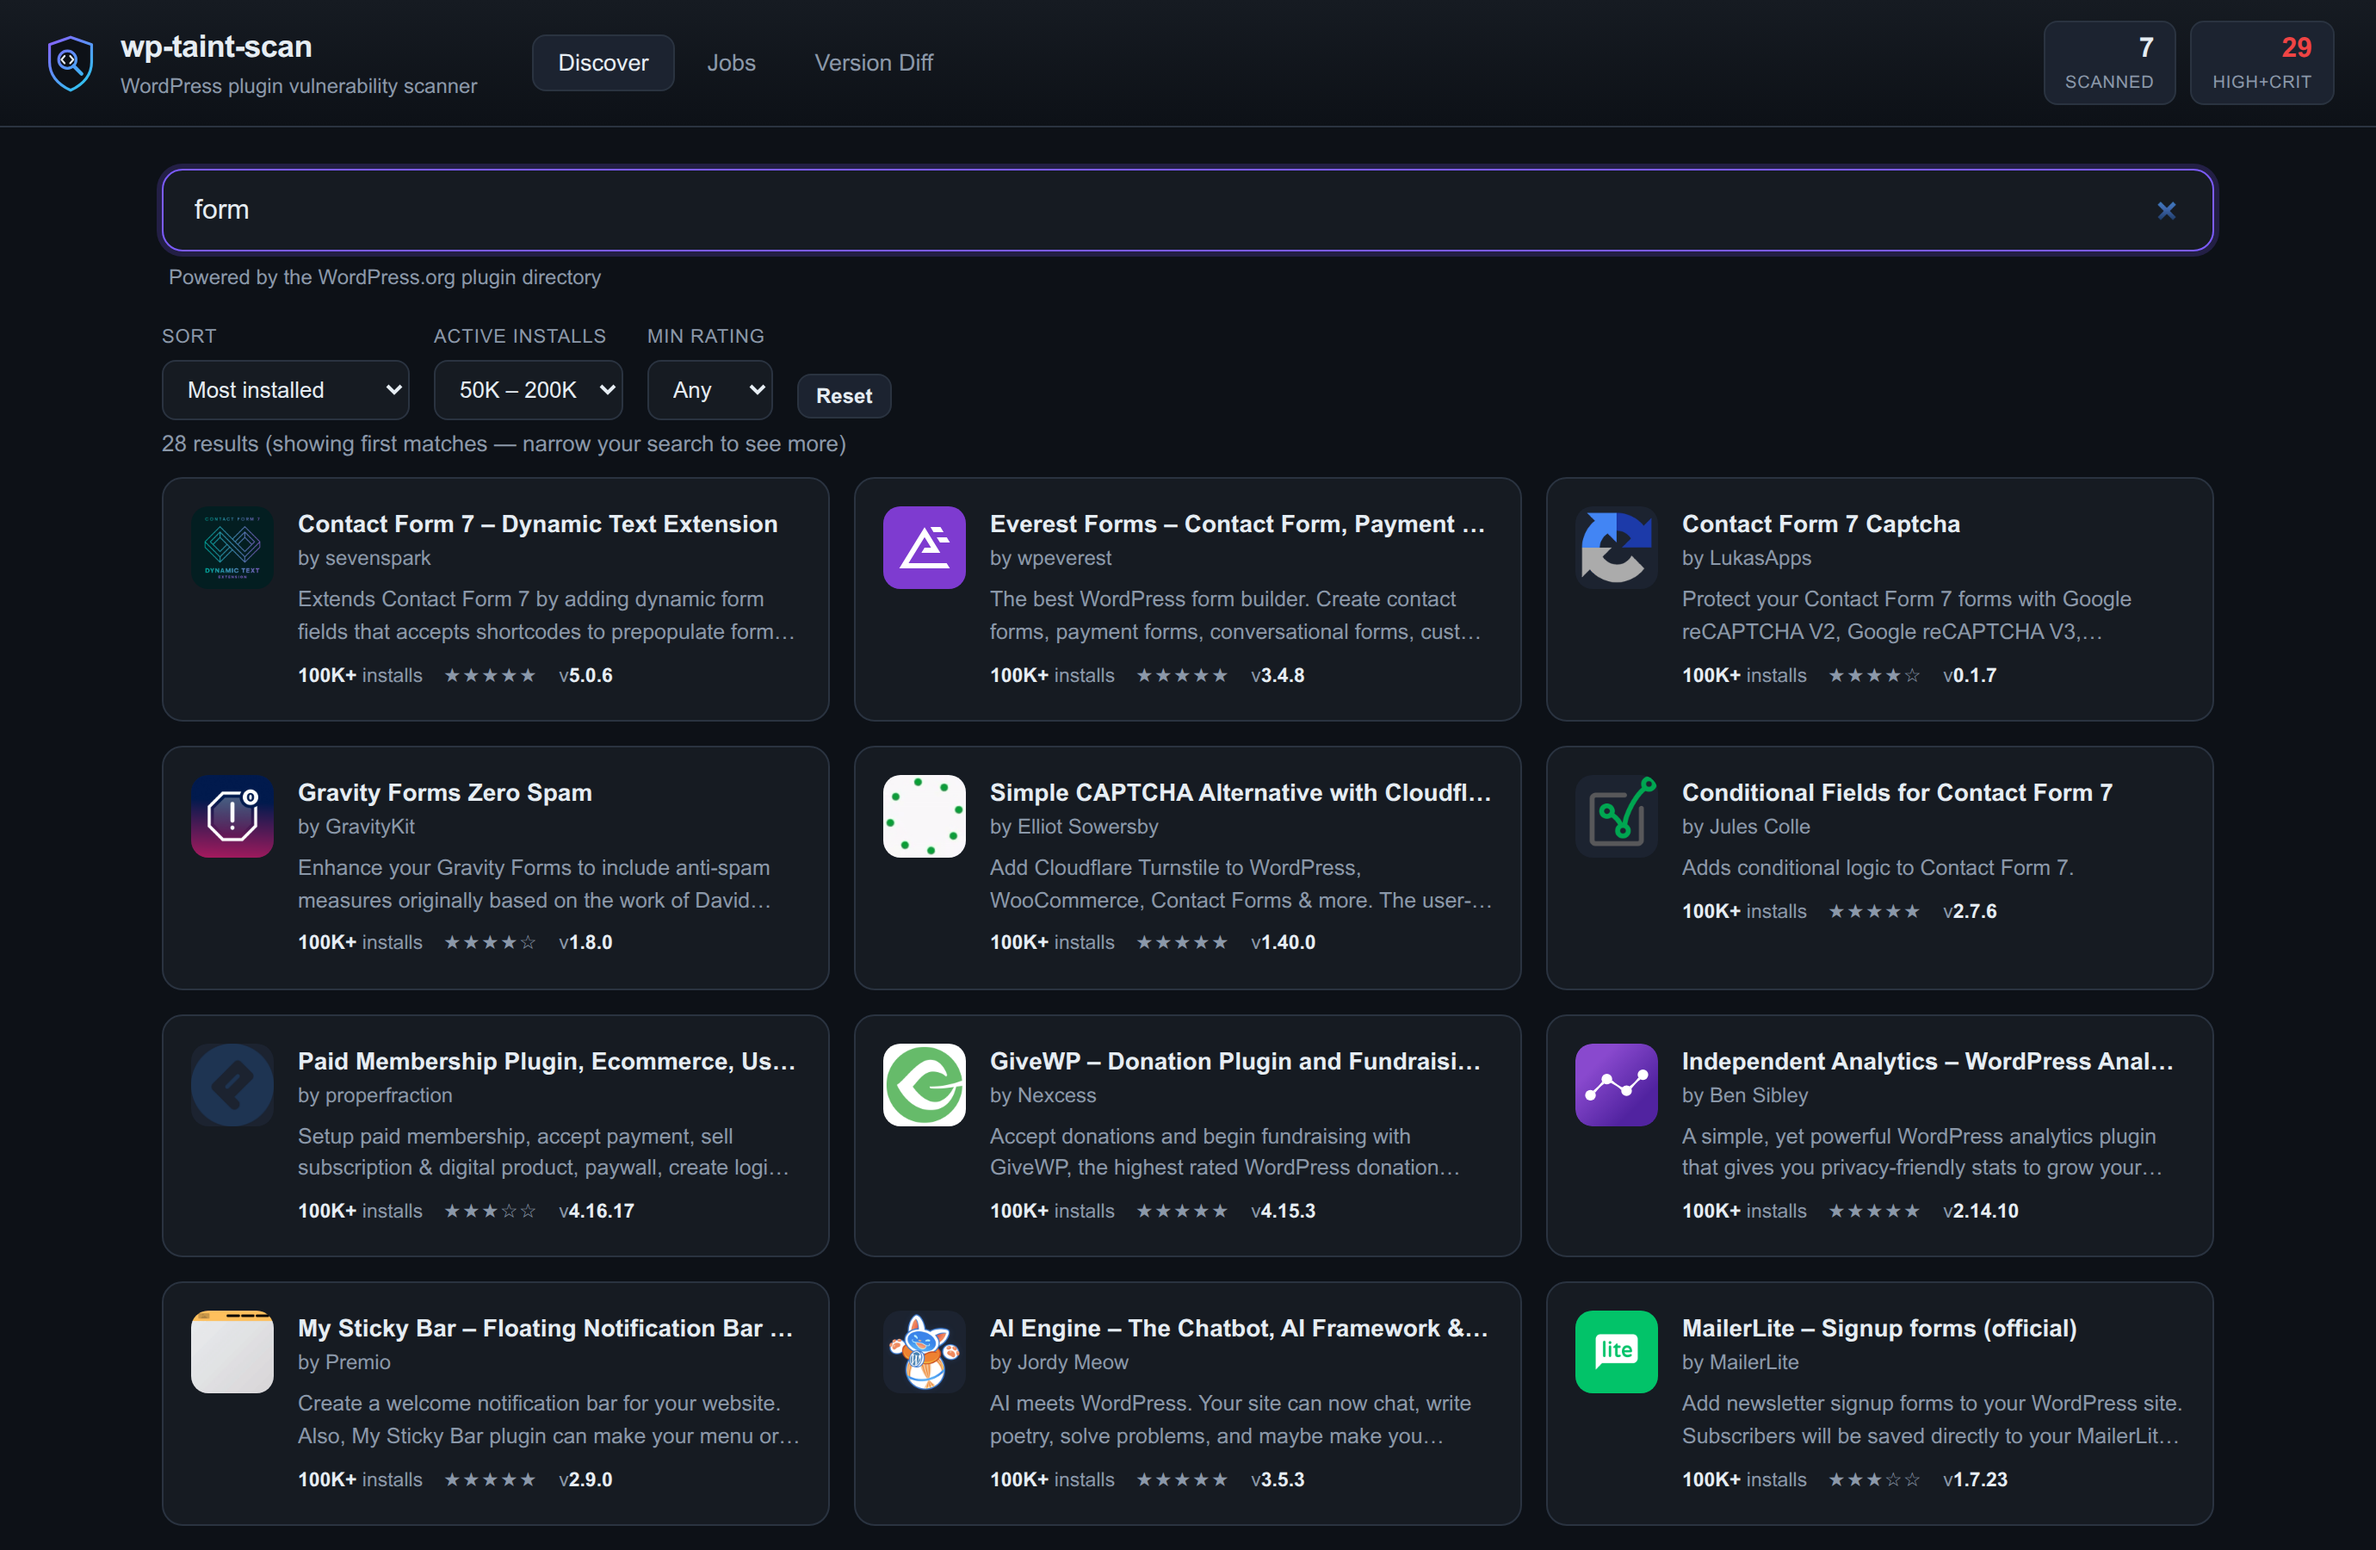
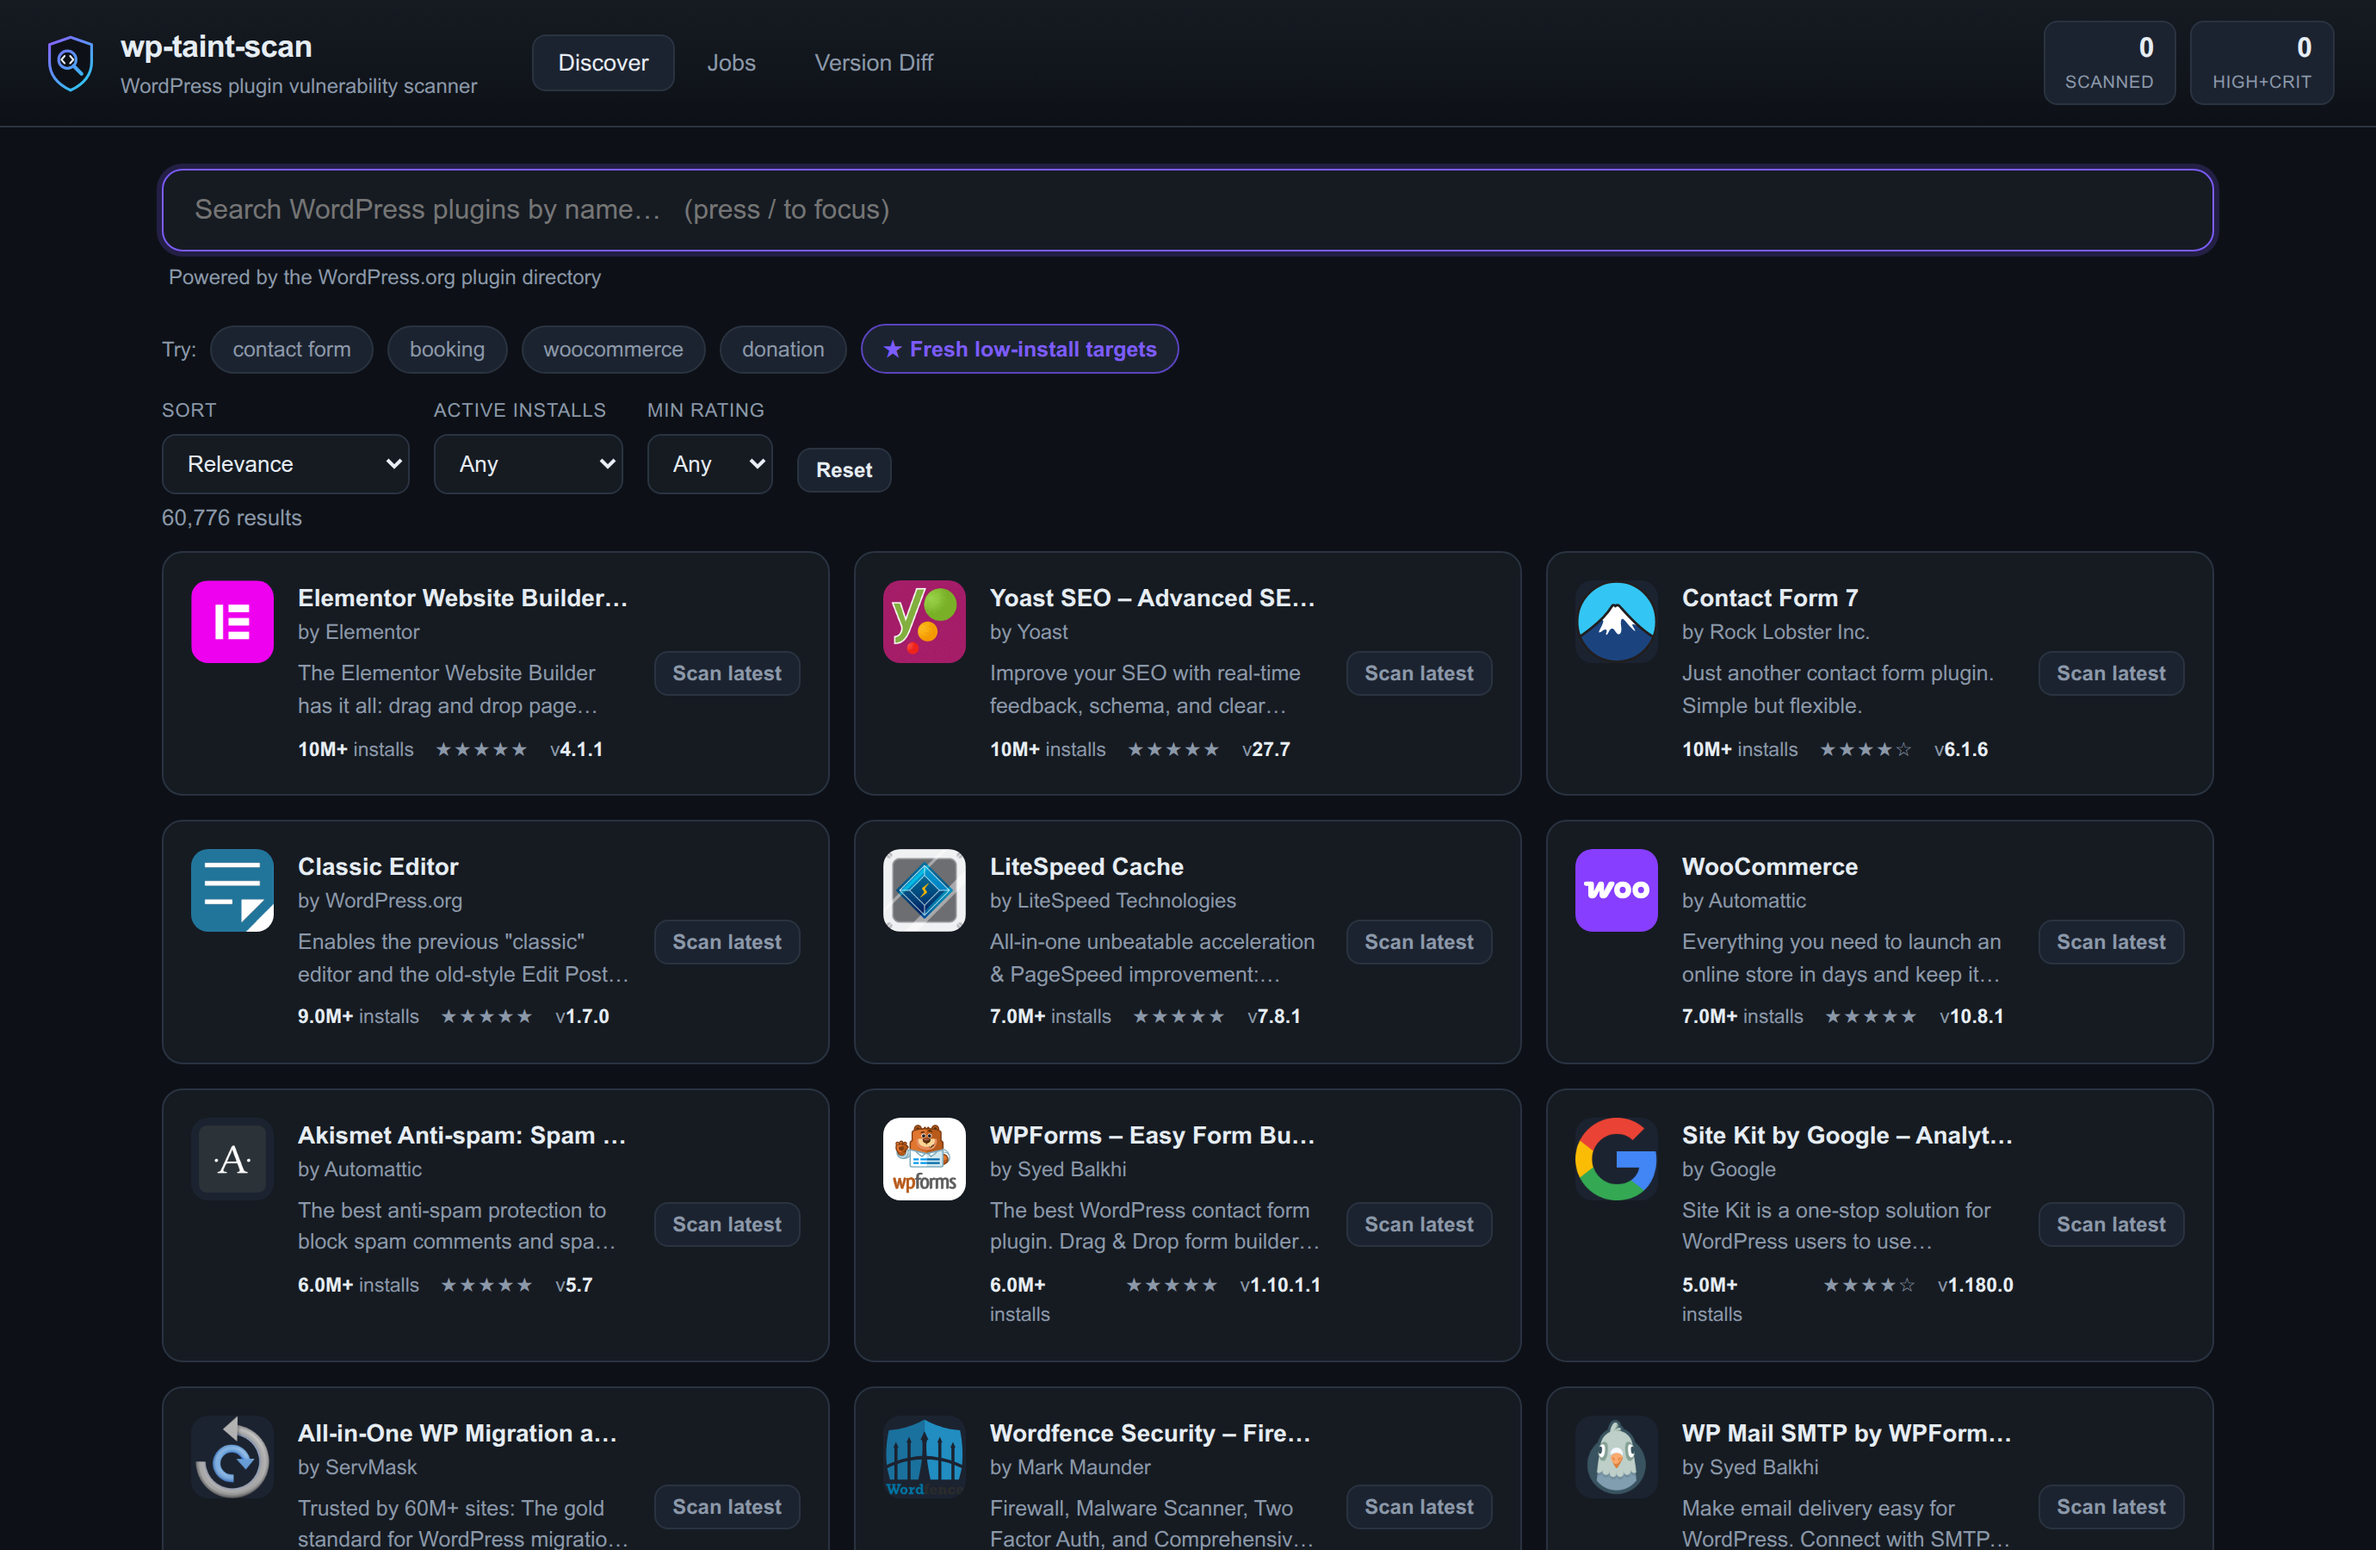
UX: easier discovery and diffing
- Show popular plugins on load (no blank screen)
- One-click 'Scan latest' button on every result card (no need to open the drawer)
- Quick chips: example searches + a 'Fresh low-install targets' preset
  (Newest + Under 1K) for fast bug-bounty discovery
- Version Diff: pick a plugin from a dropdown of those with >=2 scanned
  versions; the two newest versions auto-fill (no typing slugs)
- Press / to focus the search box
- Refreshed discover screenshot

diff --git a/cmd/taint-web/web/app.js b/cmd/taint-web/web/app.js
@@ -92,7 +92,7 @@ function showView(name) {
   document.querySelectorAll(".tab").forEach((t) => t.classList.toggle("active", t.dataset.view === name));
   document.querySelectorAll(".view").forEach((v) => v.classList.toggle("active", v.id === "view-" + name));
   if (name === "jobs") renderJobs();
-  if (name === "diff") refreshDiffVersions();
+  if (name === "diff") populateDiffPlugins();
 }
 
 /* ---------- search ---------- */
@@ -107,15 +107,15 @@ function onSearchInput(e) {
   clearTimeout(searchTimer);
   searchTimer = setTimeout(() => applySearch(), 350);
 }
-// applySearch reads state.search and fetches a page (or clears when nothing is active).
+// applySearch reads state.search and fetches a page. With nothing active it
+// shows popular plugins so the page is never blank.
 async function applySearch() {
-  if (!searchActive()) { clear($("#results")); $("#pager").hidden = true; $("#searchStatus").textContent = ""; return; }
   const s = state.search;
   const qs = new URLSearchParams({
     q: s.q, page: String(s.page), sort: s.sort,
     min_installs: String(s.minInstalls), max_installs: String(s.maxInstalls), min_rating: String(s.minRating),
   });
-  $("#searchStatus").textContent = "Searching…";
+  $("#searchStatus").textContent = s.q || searchActive() ? "Searching…" : "Loading popular plugins…";
   try {
     const res = await api.get("/api/search?" + qs.toString());
     renderResults(res);
@@ -165,6 +165,10 @@ function renderResults(res) {
           p.version ? h("span", {}, "v", h("b", { text: p.version })) : null,
         ),
       ),
+      h("button", {
+        class: "btn sm card-scan", title: "Scan the latest version",
+        onclick: (e) => { e.stopPropagation(); doScan(p.slug, p.name, [], "latest", { stay: true }); },
+      }, "Scan latest"),
     );
     grid.append(card);
   }
@@ -274,12 +278,14 @@ function confirmScanAll(slug, name, n) {
   doScan(slug, name, [], "all");
 }
 
-async function doScan(slug, name, versions, mode) {
+async function doScan(slug, name, versions, mode, opts = {}) {
   try {
     const res = await api.post("/api/scan", { slug, name, versions: versions || [], mode });
     (res.jobs || []).forEach((j) => state.jobs.set(j.id, j));
     updateBadge();
-    toast("Queued " + res.count + " scan" + (res.count === 1 ? "" : "s") + " for " + slug, "ok");
+    const verb = res.jobs && res.jobs[0] && res.jobs[0].from_cache ? "Loaded cached scan" : "Queued " + res.count + " scan" + (res.count === 1 ? "" : "s");
+    toast(verb + " for " + slug, "ok");
+    if (opts.stay) return;            // card scan: stay on Discover
     closeDrawer();
     showView("jobs");
   } catch (err) {
@@ -473,17 +479,36 @@ function traceStep(tag, loc) {
 }
 
 /* ---------- diff view ---------- */
+// plugins with >=2 scanned versions are eligible for diffing
+function diffEligiblePlugins() {
+  const m = new Map();
+  for (const j of state.jobs.values()) {
+    if (j.status !== "done") continue;
+    if (!m.has(j.slug)) m.set(j.slug, { name: j.plugin_name || j.slug, versions: new Set() });
+    m.get(j.slug).versions.add(j.version);
+  }
+  return [...m.entries()].filter(([, v]) => v.versions.size >= 2);
+}
+function populateDiffPlugins() {
+  const sel = $("#diffSlug");
+  const cur = sel.value;
+  const eligible = diffEligiblePlugins().sort((a, b) => a[1].name.localeCompare(b[1].name));
+  clear(sel);
+  sel.append(h("option", { value: "", text: eligible.length ? "choose a plugin…" : "scan ≥2 versions of a plugin first" }));
+  for (const [slug, v] of eligible) sel.append(h("option", { value: slug, text: v.name + " (" + v.versions.size + " versions)" }));
+  if (eligible.some(([s]) => s === cur)) sel.value = cur;
+  refreshDiffVersions();
+}
 function refreshDiffVersions() {
-  const slug = $("#diffSlug").value.trim();
+  const slug = $("#diffSlug").value;
   const done = [...state.jobs.values()].filter((j) => j.slug === slug && j.status === "done").map((j) => j.version);
-  const uniq = [...new Set(done)].sort((a, b) => a < b ? 1 : -1);
+  const uniq = [...new Set(done)].sort((a, b) => a < b ? 1 : -1); // newest first
   for (const sel of [$("#diffA"), $("#diffB")]) {
-    const cur = sel.value;
     clear(sel);
     sel.append(h("option", { value: "", text: sel.id === "diffA" ? "version A…" : "version B…" }));
     for (const v of uniq) sel.append(h("option", { value: v, text: v }));
-    if (uniq.includes(cur)) sel.value = cur;
   }
+  if (uniq.length >= 2) { $("#diffA").value = uniq[1]; $("#diffB").value = uniq[0]; } // older → newest
 }
 async function runDiff() {
   const slug = $("#diffSlug").value.trim(), a = $("#diffA").value, b = $("#diffB").value;
@@ -590,11 +615,35 @@ async function init() {
     for (const [id, j] of state.jobs) if (j.status !== "queued" && j.status !== "downloading" && j.status !== "scanning") state.jobs.delete(id);
     renderJobs(); updateBadge();
   });
-  $("#diffSlug").addEventListener("input", refreshDiffVersions);
+  $("#diffSlug").addEventListener("change", refreshDiffVersions);
   $("#diffRun").addEventListener("click", runDiff);
+
+  // quick chips + bounty preset
+  $("#quickChips").addEventListener("click", (e) => {
+    const c = e.target.closest(".chip");
+    if (!c) return;
+    if (c.dataset.preset === "fresh") {
+      Object.assign(state.search, { q: "", sort: "new", minInstalls: 0, maxInstalls: 1000, minRating: 0, page: 1 });
+      $("#search").value = ""; $("#fSort").value = "new"; $("#fInstalls").value = "0:1000"; $("#fRating").value = "0";
+    } else if (c.dataset.q) {
+      Object.assign(state.search, { q: c.dataset.q, page: 1 });
+      $("#search").value = c.dataset.q;
+    }
+    applySearch();
+  });
+
+  // "/" focuses the search box (unless already typing)
+  document.addEventListener("keydown", (e) => {
+    if (e.key !== "/" || e.ctrlKey || e.metaKey) return;
+    const t = e.target.tagName;
+    if (t === "INPUT" || t === "TEXTAREA" || t === "SELECT") return;
+    e.preventDefault();
+    $("#search").focus();
+  });
 
   await loadExistingJobs(); // load before SSE so no live update gets clobbered
   connectSSE();
+  applySearch();            // show popular plugins on load (no blank screen)
   refreshStats();
   setInterval(refreshStats, 8000);
 }

diff --git a/cmd/taint-web/web/index.html b/cmd/taint-web/web/index.html
@@ -28,8 +28,16 @@
     <!-- DISCOVER -->
     <section class="view active" id="view-discover">
       <div class="searchbar">
-        <input type="search" id="search" placeholder="Search WordPress plugins by name…  (e.g. contact form, woocommerce)" autocomplete="off" autofocus>
+        <input type="search" id="search" placeholder="Search WordPress plugins by name…   (press / to focus)" autocomplete="off" autofocus>
         <span class="hint">Powered by the WordPress.org plugin directory</span>
+      </div>
+      <div class="quickchips" id="quickChips">
+        <span class="qlabel">Try:</span>
+        <button class="chip" data-q="contact form">contact form</button>
+        <button class="chip" data-q="booking">booking</button>
+        <button class="chip" data-q="woocommerce">woocommerce</button>
+        <button class="chip" data-q="donation">donation</button>
+        <button class="chip preset" data-preset="fresh">★ Fresh low-install targets</button>
       </div>
       <div class="filterbar">
         <label>Sort
@@ -89,7 +97,7 @@
         <h2>Compare findings across two scanned versions</h2>
         <p class="muted">Scan at least two versions of the same plugin first, then pick them here to see which findings were <b>introduced</b> or <b>fixed</b>.</p>
         <div class="diff-controls">
-          <input type="text" id="diffSlug" placeholder="plugin-slug">
+          <select id="diffSlug"><option value="">choose a plugin…</option></select>
           <select id="diffA"><option value="">version A…</option></select>
           <span>→</span>
           <select id="diffB"><option value="">version B…</option></select>

diff --git a/cmd/taint-web/web/style.css b/cmd/taint-web/web/style.css
@@ -97,6 +97,11 @@ main { padding: 24px; max-width: 1240px; margin: 0 auto; }
 .filterbar select:focus { border-color: var(--accent); }
 .filterbar #fReset { margin-bottom: 1px; }
 
+/* ---- Quick chips ---- */
+.quickchips { display: flex; gap: 8px; align-items: center; flex-wrap: wrap; margin-top: 12px; }
+.quickchips .qlabel { font-size: 12px; color: var(--muted); }
+.quickchips .chip.preset { color: var(--accent); border-color: var(--accent-dim); font-weight: 600; }
+
 /* ---- Pager ---- */
 .pager { display: flex; align-items: center; justify-content: center; gap: 14px; margin: 22px 0 6px; }
 .pager .pageinfo { font-size: 13px; color: var(--muted); font-variant-numeric: tabular-nums; min-width: 110px; text-align: center; }
@@ -115,6 +120,8 @@ main { padding: 24px; max-width: 1240px; margin: 0 auto; }
 .card .desc { font-size: 12.5px; color: var(--muted); display: -webkit-box; -webkit-line-clamp: 2; -webkit-box-orient: vertical; overflow: hidden; }
 .card .meta { display: flex; gap: 12px; margin-top: 8px; font-size: 11.5px; color: var(--muted); }
 .card .meta b { color: var(--text); }
+.card .card-scan { align-self: center; flex-shrink: 0; white-space: nowrap; background: var(--bg-elev2); color: var(--muted); border: 1px solid var(--border); }
+.card:hover .card-scan { border-color: var(--accent-dim); color: var(--accent); }
 
 /* ---- Drawer ---- */
 .drawer-overlay { position: fixed; inset: 0; background: rgba(0,0,0,.55); z-index: 30; animation: fade .15s; }
